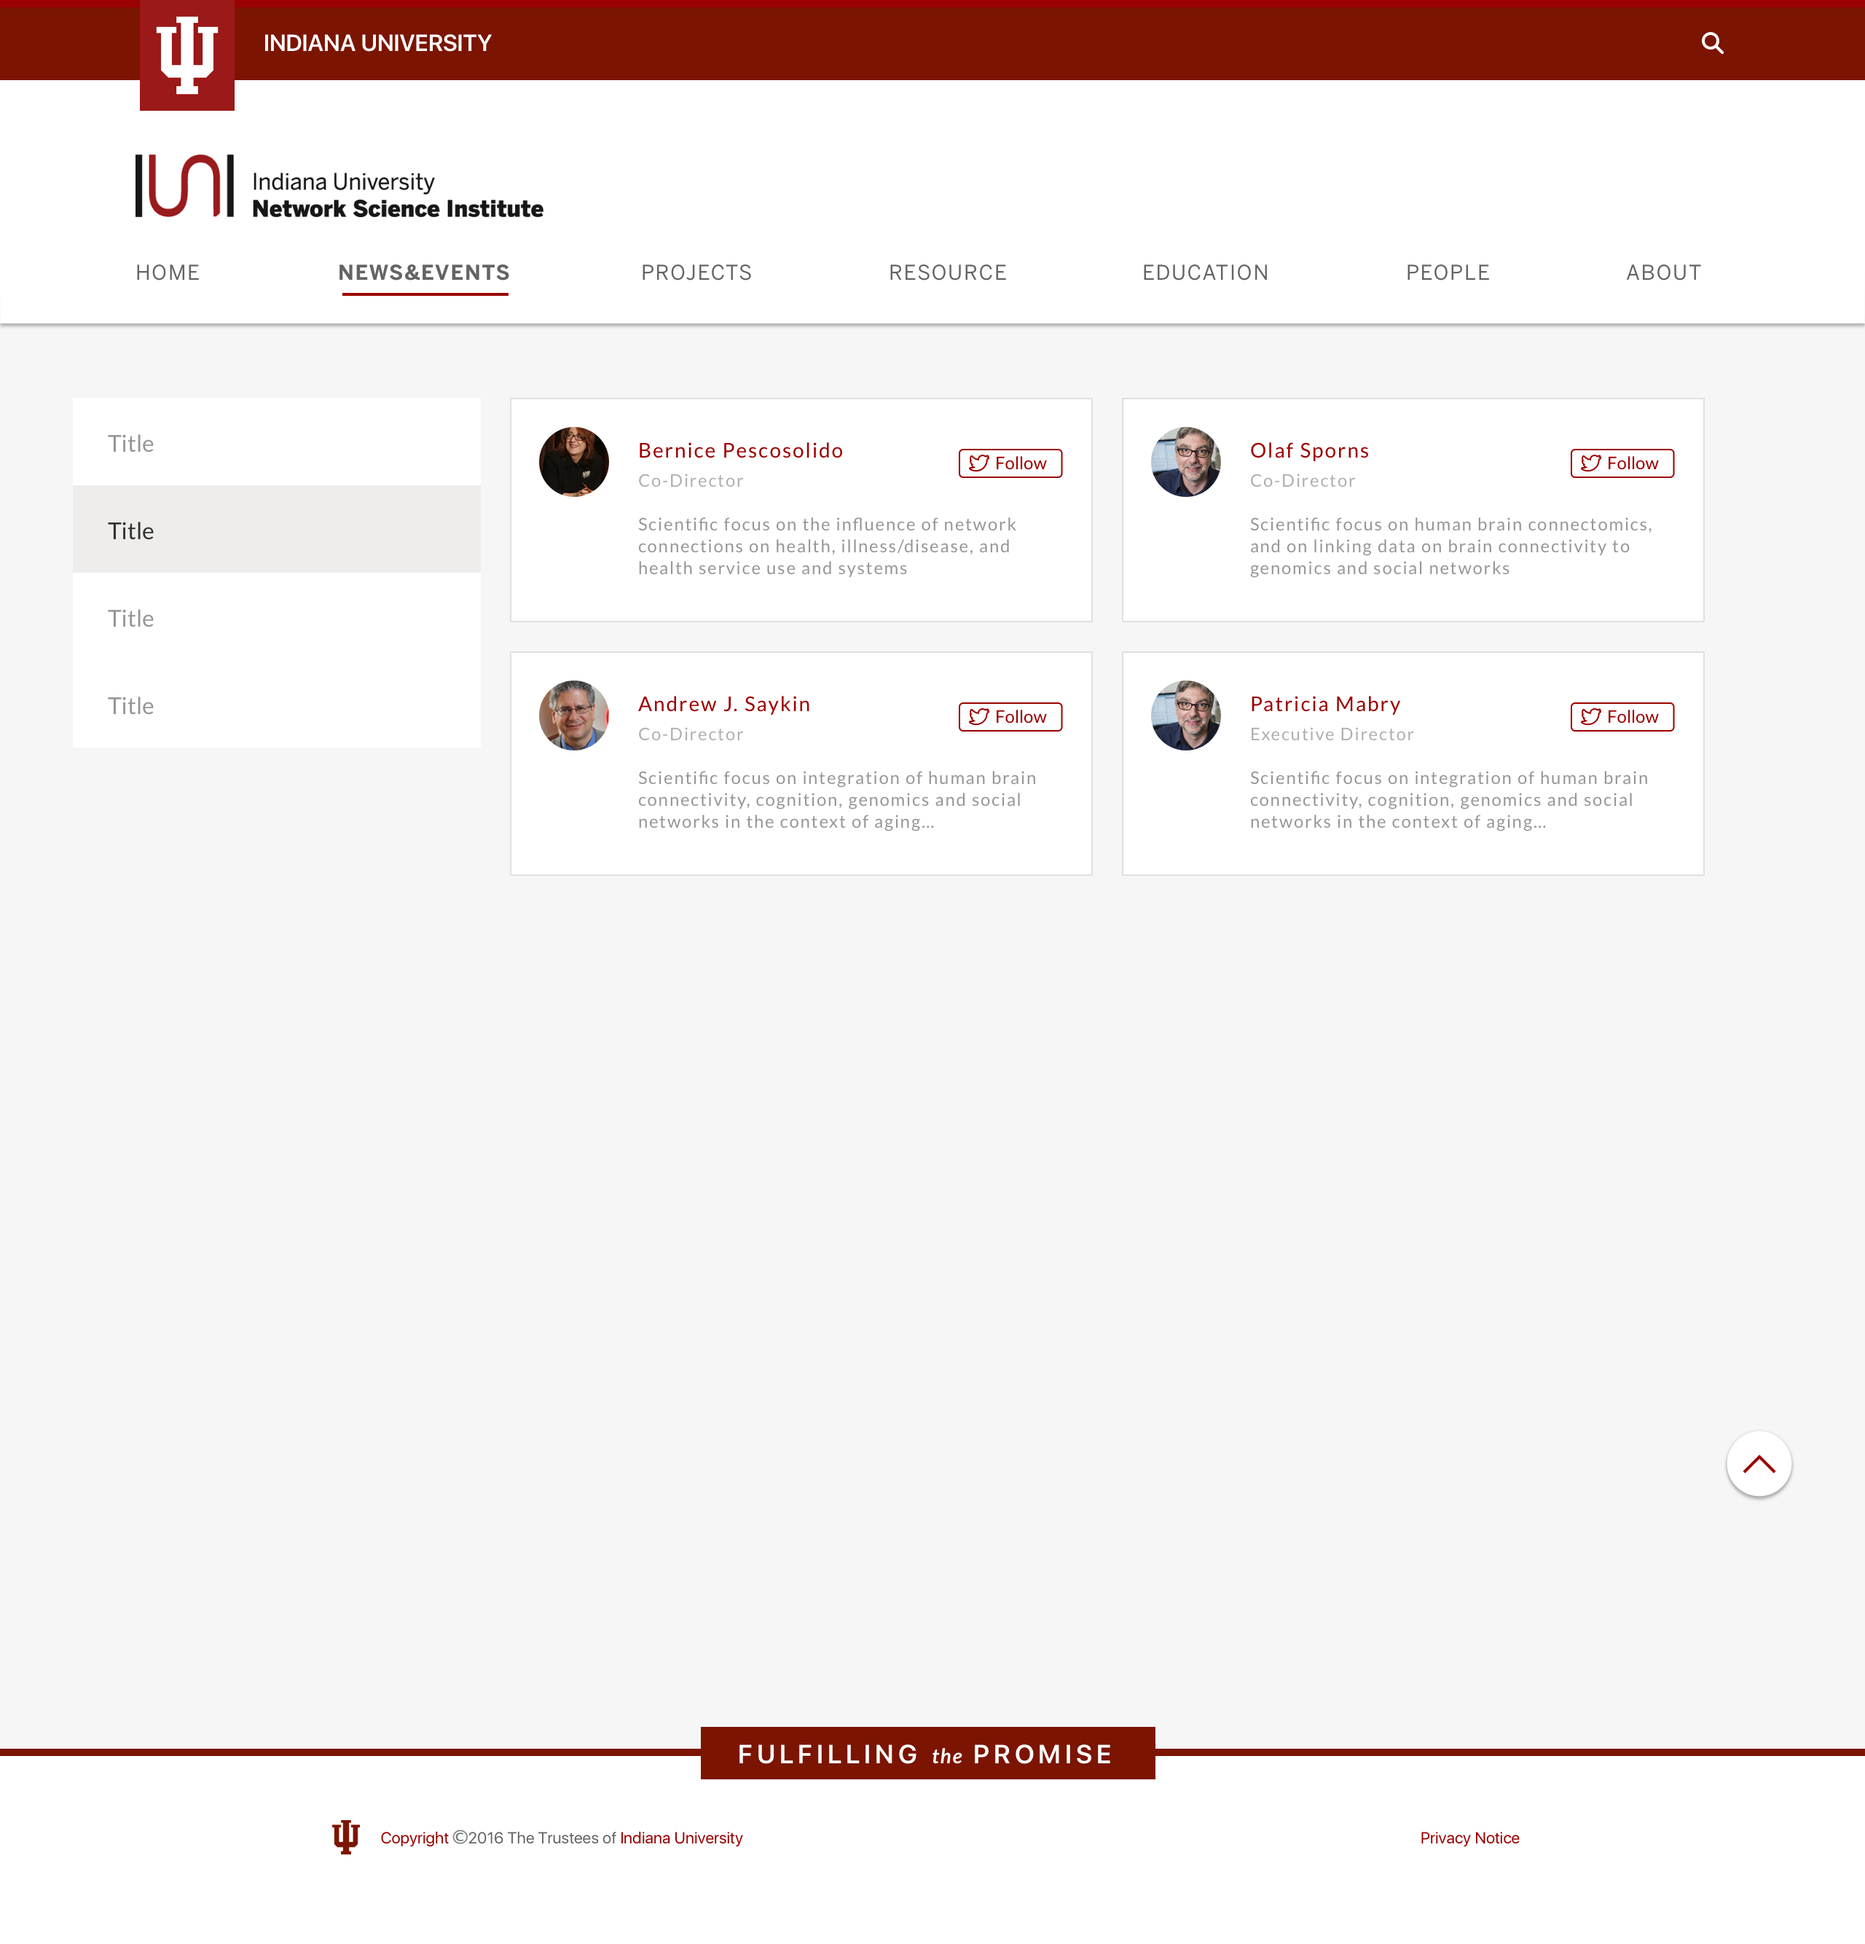
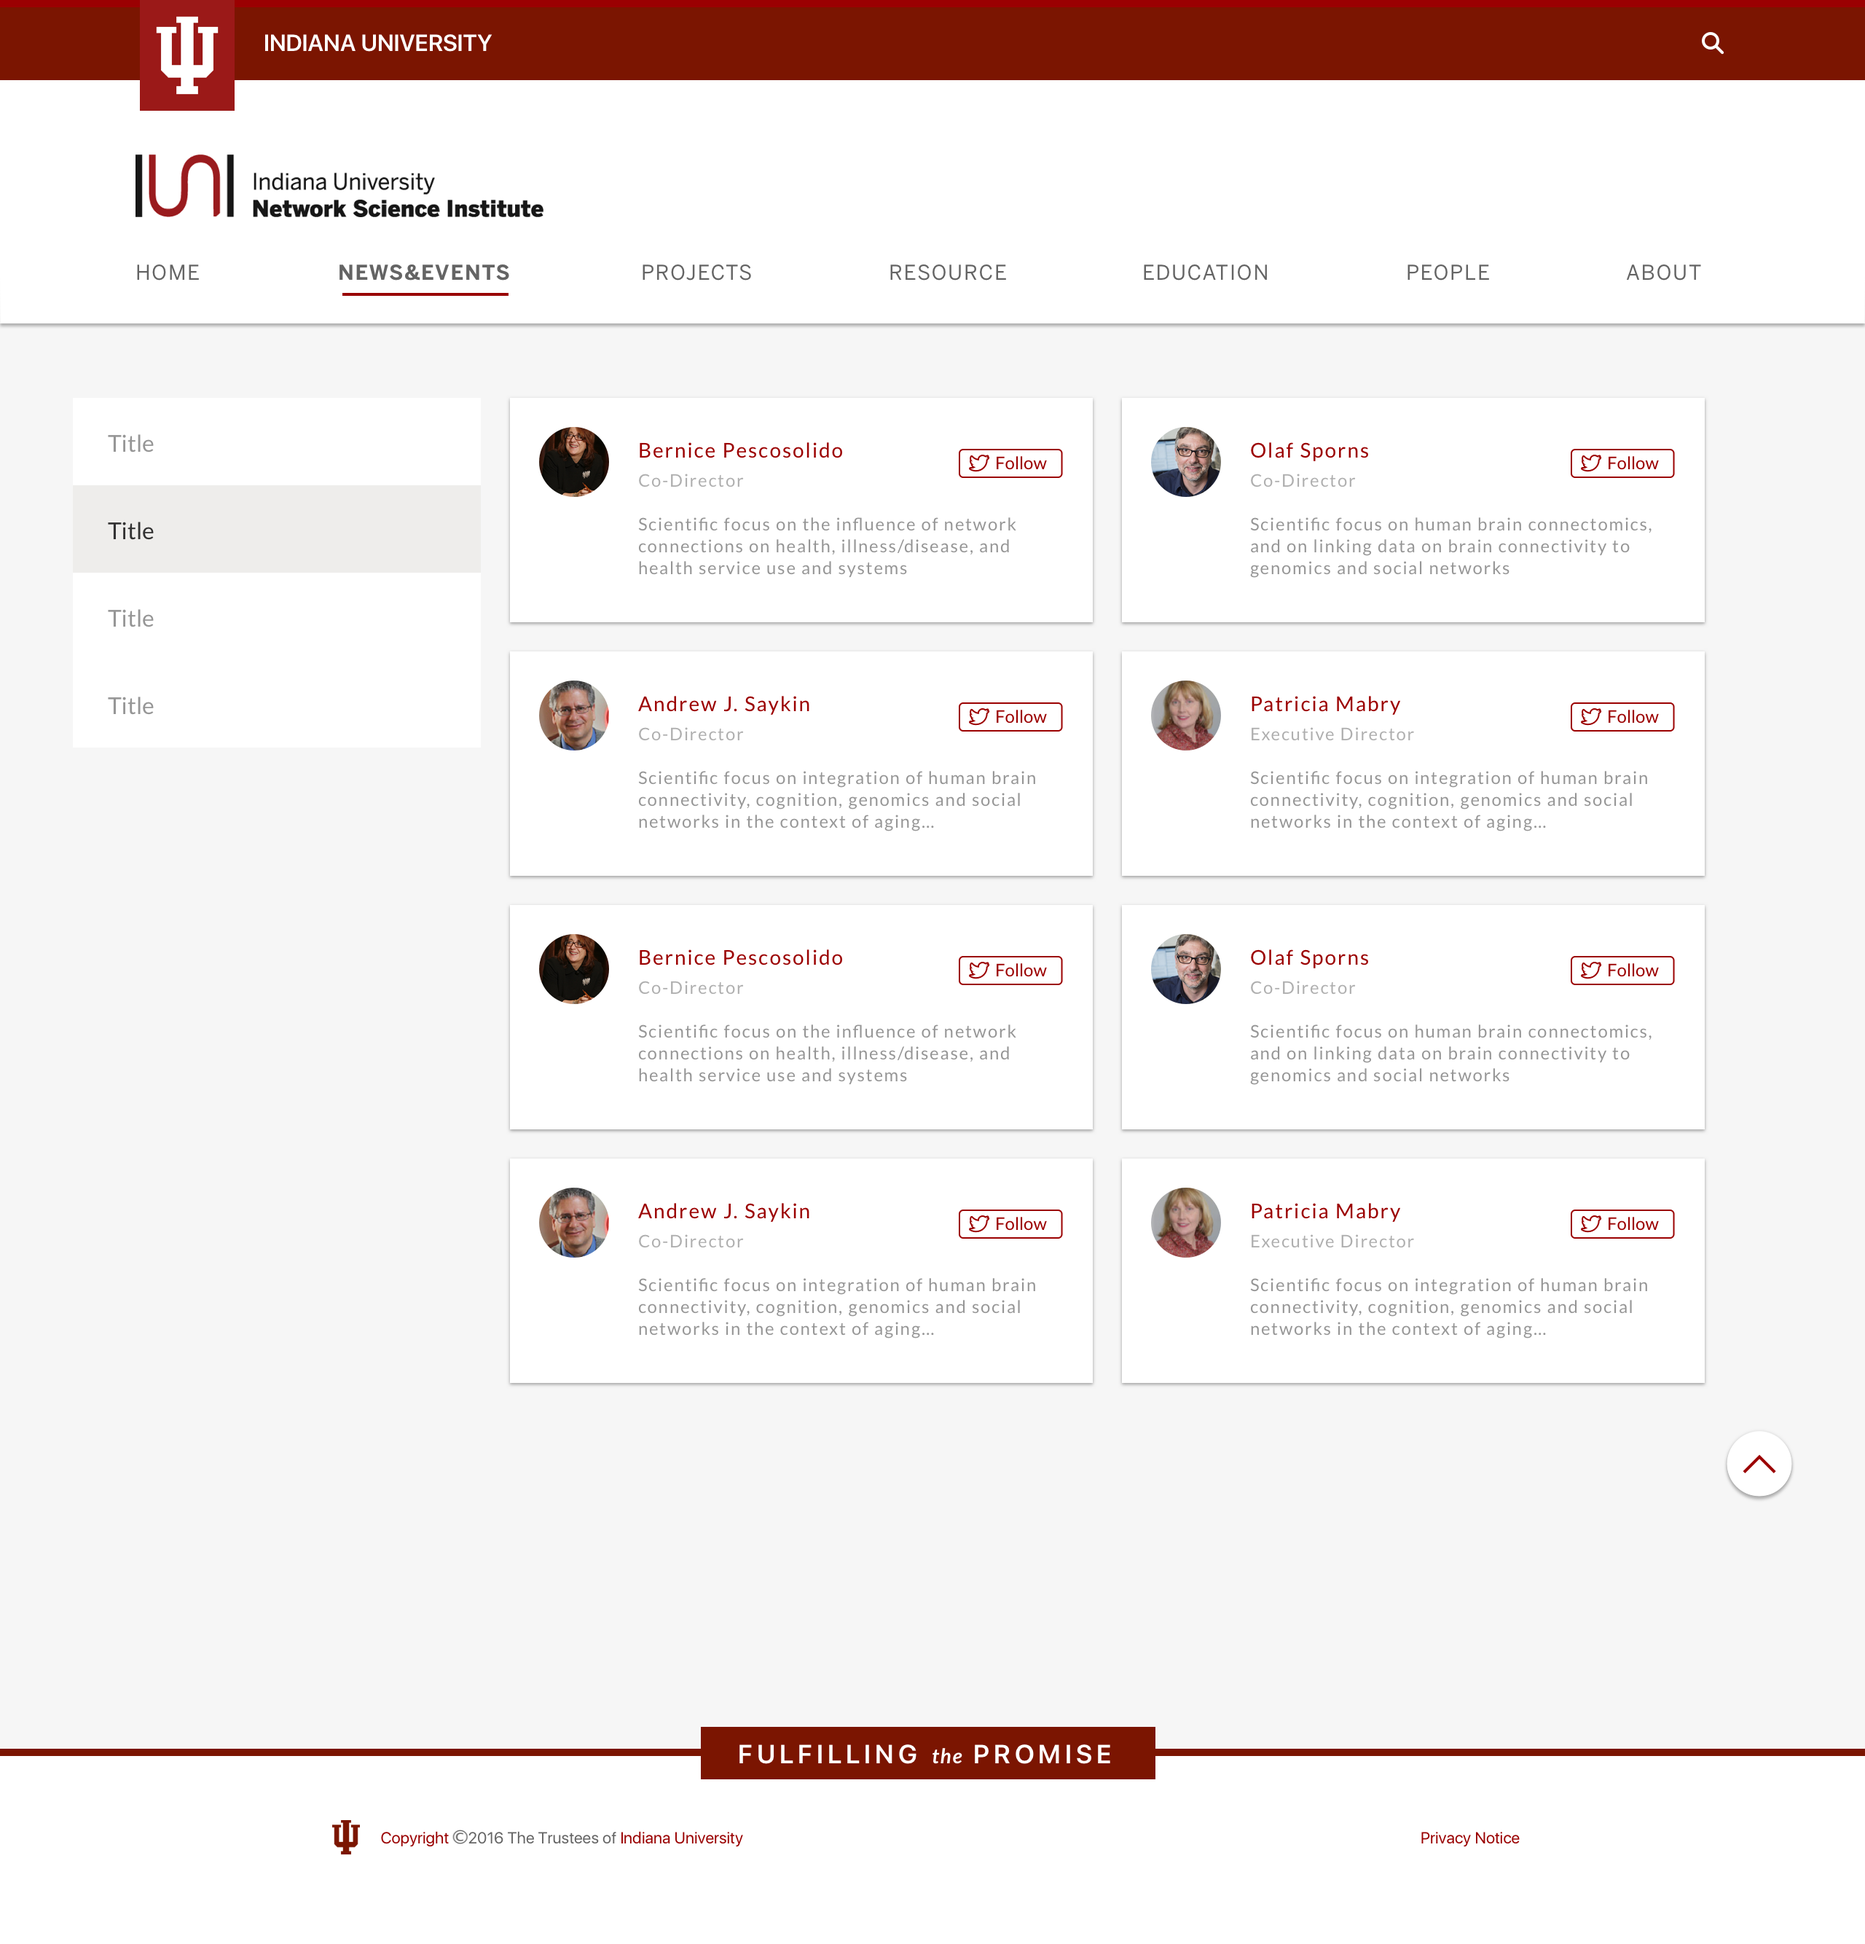
update people design

diff --git a/iuni/people/v1.0-card.html b/iuni/people/v1.0-card.html
@@ -1,0 +1,60 @@
+<!DOCTYPE html>
+<html>
+
+<head>
+    <meta charset="utf-8">
+    <meta http-equiv="X-UA-Compatible" content="IE=edge,chrome=1">
+    <title>IUNI</title>
+
+    <!--    <link rel="stylesheet" href="stylesheets/fonts.css">-->
+    <link rel="stylesheet" href="../../stylesheets/bootstrap.min.css">
+    <link rel="stylesheet" href="../../stylesheets/umu.css">
+
+    <!--opne in new window-->
+    <!--    <base target="_blank">-->
+
+
+    <!--   import jquery-->
+    <script type="text/javascript" src="//code.jquery.com/jquery-1.11.0.min.js"></script>
+    <script type="text/javascript" src="//code.jquery.com/jquery-migrate-1.2.1.min.js"></script>
+    
+    <!-- Font awesome -->
+    <script src="https://use.fontawesome.com/4d0892714c.js"></script>
+
+
+    <style>
+        
+        .col-md-12 {
+            padding: 0;
+        }
+        
+    </style>
+
+</head>
+
+
+
+<body>
+
+    <!--CONTENT-->
+    <section class="container-fluid text-center">
+
+
+
+        <div class="row">
+
+            <div class="col-md-12">
+                <img class="img-responsive" src="../images/people/people-v1.0-card.png" alt="">
+
+            </div>
+
+
+        </div>
+
+
+    </section>
+
+
+</body>
+
+</html>

diff --git a/iuni/iuni.html b/iuni/iuni.html
@@ -282,6 +282,14 @@
 
                 </div>
             </a>
+            
+            <a href="people/v1.0-card.html" target="_blank">
+                <div class="col-md-3 bg-iuni">
+
+                    <p>People-v1.0-card</p>
+
+                </div>
+            </a>
 
             <a href="people/v1.1-card.html" target="_blank">
                 <div class="col-md-3 bg-iuni">
